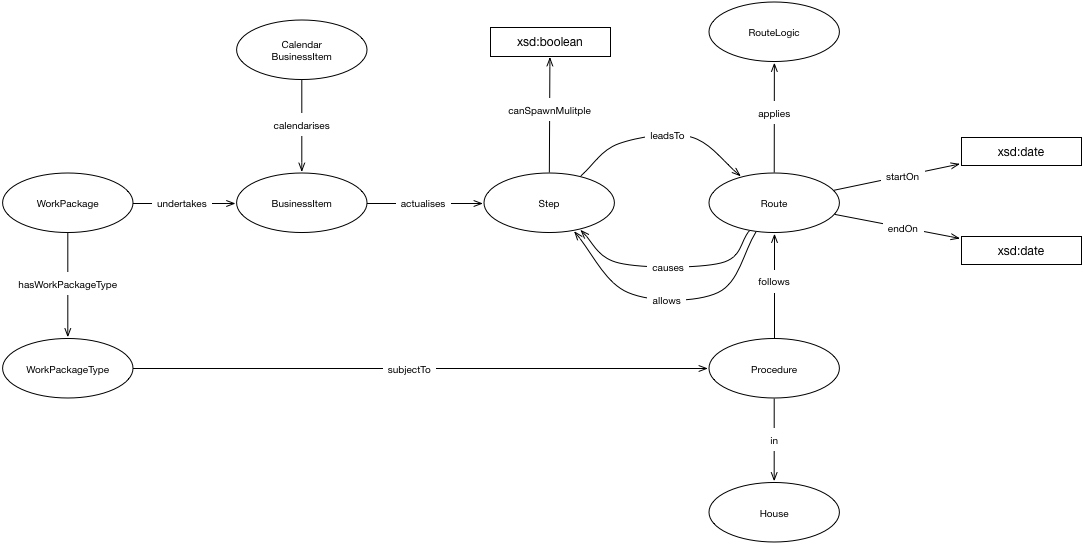
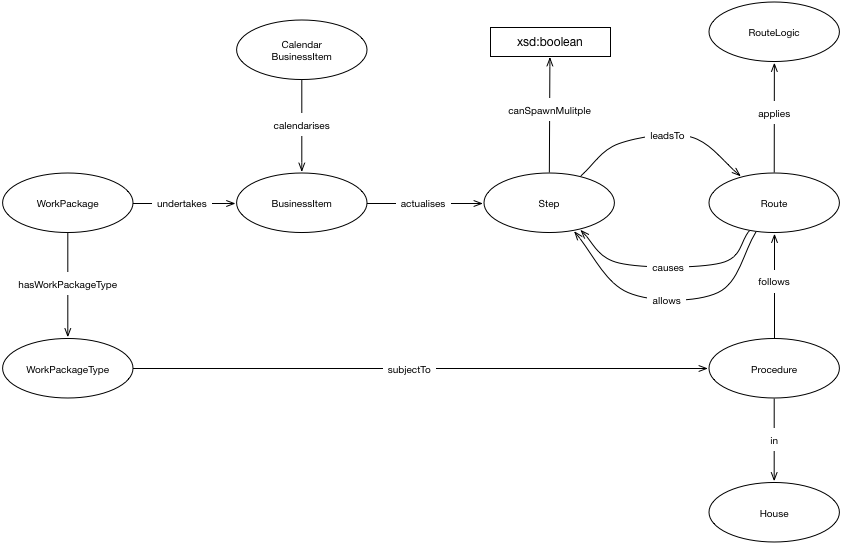
removed explicit start on and end on from routes, added to comment instead

diff --git a/procedure/procedure-ontology.html b/procedure/procedure-ontology.html
@@ -51,6 +51,9 @@
 
 
 
-<div id="classes"><h2>Classes</h2><ul class="hlist"><li><a href="#d4e247" title="http://parliament.uk/ontologies/procedure/BusinessItem">BusinessItem</a></li><li><a href="#d4e259" title="http://parliament.uk/ontologies/procedure/CalendarBusinessItem">CalendarBusinessItem</a></li><li><a href="#d4e270" title="http://parliament.uk/ontologies/procedure/House">House</a></li><li><a href="#d4e281" title="http://parliament.uk/ontologies/procedure/Procedure">Procedure</a></li><li><a href="#d4e293" title="http://parliament.uk/ontologies/procedure/Route">Route</a></li><li><a href="#d4e304" title="http://parliament.uk/ontologies/procedure/RouteLogic">RouteLogic</a></li><li><a href="#d4e315" title="http://parliament.uk/ontologies/procedure/Step">Step</a></li><li><a href="#d4e327" title="http://parliament.uk/ontologies/procedure/WorkPackage">WorkPackage</a></li><li><a href="#d4e338" title="http://parliament.uk/ontologies/procedure/WorkPackageType">WorkPackageType</a></li></ul><div id="d4e247" class="entity"><a name="http://parliament.uk/ontologies/procedure/BusinessItem"></a><h3>BusinessItem<sup title="class" class="type-c">c</sup><span class="backlink"> back to <a href="#toc">ToC</a> or <a href="#classes">Class ToC</a></span></h3><p><strong>IRI:</strong> http://parliament.uk/ontologies/procedure/BusinessItem</p><div class="comment"><span class="markdown">An item of parliamentary business.</span></div><dl class="description"><dt>is in domain of</dt><dd><a href="#d4e29" title="http://parliament.uk/ontologies/procedure/actualises">actualises</a><sup title="object property" class="type-op">op</sup></dd><dt>is in range of</dt><dd><a href="#d4e75" title="http://parliament.uk/ontologies/procedure/calendarises">calendarises</a><sup title="object property" class="type-op">op</sup>, <a href="#d4e182" title="http://parliament.uk/ontologies/procedure/undertakes">undertakes</a><sup title="object property" class="type-op">op</sup></dd></dl></div><div id="d4e259" class="entity"><a name="http://parliament.uk/ontologies/procedure/CalendarBusinessItem"></a><h3>CalendarBusinessItem<sup title="class" class="type-c">c</sup><span class="backlink"> back to <a href="#toc">ToC</a> or <a href="#classes">Class ToC</a></span></h3><p><strong>IRI:</strong> http://parliament.uk/ontologies/procedure/CalendarBusinessItem</p><div class="comment"><span class="markdown">An item of parliamentary business which has been timetabled onto a calendar.</span></div><dl class="description"><dt>is in domain of</dt><dd><a href="#d4e75" title="http://parliament.uk/ontologies/procedure/calendarises">calendarises</a><sup title="object property" class="type-op">op</sup></dd></dl></div><div id="d4e270" class="entity"><a name="http://parliament.uk/ontologies/procedure/House"></a><h3>House<sup title="class" class="type-c">c</sup><span class="backlink"> back to <a href="#toc">ToC</a> or <a href="#classes">Class ToC</a></span></h3><p><strong>IRI:</strong> http://parliament.uk/ontologies/procedure/House</p><div class="comment"><span class="markdown">A parliamentary House e.g. the House of Lords.</span></div><dl class="description"><dt>is in range of</dt><dd><a href="#d4e136" title="http://parliament.uk/ontologies/procedure/in">in</a><sup title="object property" class="type-op">op</sup></dd></dl></div><div id="d4e281" class="entity"><a name="http://parliament.uk/ontologies/procedure/Procedure"></a><h3>Procedure<sup title="class" class="type-c">c</sup><span class="backlink"> back to <a href="#toc">ToC</a> or <a href="#classes">Class ToC</a></span></h3><p><strong>IRI:</strong> http://parliament.uk/ontologies/procedure/Procedure</p><div class="comment"><span class="markdown">A parliamentary procedure in a particular House. Examples might be the passage of an affirmative SI in the House of Commons, the passage of a public bill in the House of Lords etc.</span></div><dl class="description"><dt>is in domain of</dt><dd><a href="#d4e105" title="http://parliament.uk/ontologies/procedure/follows">follows</a><sup title="object property" class="type-op">op</sup>, <a href="#d4e136" title="http://parliament.uk/ontologies/procedure/in">in</a><sup title="object property" class="type-op">op</sup></dd><dt>is in range of</dt><dd><a href="#d4e167" title="http://parliament.uk/ontologies/procedure/subjectTo">subjectTo</a><sup title="object property" class="type-op">op</sup></dd></dl></div><div id="d4e293" class="entity"><a name="http://parliament.uk/ontologies/procedure/Route"></a><h3>Route<sup title="class" class="type-c">c</sup><span class="backlink"> back to <a href="#toc">ToC</a> or <a href="#classes">Class ToC</a></span></h3><p><strong>IRI:</strong> http://parliament.uk/ontologies/procedure/Route</p><div class="comment"><span class="markdown">Ties a preceding step to a following step depending on applicable procedure, point in time and conditional inputs from the preceding step.</span></div><dl class="description"><dt>is in domain of</dt><dd><a href="#d4e44" title="http://parliament.uk/ontologies/procedure/allows">allows</a><sup title="object property" class="type-op">op</sup>, <a href="#d4e59" title="http://parliament.uk/ontologies/procedure/applies">applies</a><sup title="object property" class="type-op">op</sup>, <a href="#d4e90" title="http://parliament.uk/ontologies/procedure/causes">causes</a><sup title="object property" class="type-op">op</sup>, <a href="#d4e215" title="http://parliament.uk/ontologies/procedure/endOn">endOn</a><sup title="data property" class="type-dp">dp</sup>, <a href="#d4e230" title="http://parliament.uk/ontologies/procedure/startOn">startOn</a><sup title="data property" class="type-dp">dp</sup></dd><dt>is in range of</dt><dd><a href="#d4e105" title="http://parliament.uk/ontologies/procedure/follows">follows</a><sup title="object property" class="type-op">op</sup>, <a href="#d4e151" title="http://parliament.uk/ontologies/procedure/leadsTo">leadsTo</a><sup title="object property" class="type-op">op</sup></dd></dl></div><div id="d4e304" class="entity"><a name="http://parliament.uk/ontologies/procedure/RouteLogic"></a><h3>RouteLogic<sup title="class" class="type-c">c</sup><span class="backlink"> back to <a href="#toc">ToC</a> or <a href="#classes">Class ToC</a></span></h3><p><strong>IRI:</strong> http://parliament.uk/ontologies/procedure/RouteLogic</p><div class="comment"><span class="markdown">Works something like a logic gate. Route logic allows for the specification of the logic which determines a route's actions. Takes into account the completion of all preceding steps leading to the route and states whether all preceding steps must be completed (AND) or just some (OR).</span></div><dl class="description"><dt>is in range of</dt><dd><a href="#d4e59" title="http://parliament.uk/ontologies/procedure/applies">applies</a><sup title="object property" class="type-op">op</sup></dd></dl></div><div id="d4e315" class="entity"><a name="http://parliament.uk/ontologies/procedure/Step"></a><h3>Step<sup title="class" class="type-c">c</sup><span class="backlink"> back to <a href="#toc">ToC</a> or <a href="#classes">Class ToC</a></span></h3><p><strong>IRI:</strong> http://parliament.uk/ontologies/procedure/Step</p><div class="comment"><span class="markdown">A step in a process. May occur in one or many routes.</span></div><dl class="description"><dt>is in domain of</dt><dd><a href="#d4e199" title="http://parliament.uk/ontologies/procedure/canSpawnMultiple">canSpawnMultiple</a><sup title="data property" class="type-dp">dp</sup>, <a href="#d4e151" title="http://parliament.uk/ontologies/procedure/leadsTo">leadsTo</a><sup title="object property" class="type-op">op</sup></dd><dt>is in range of</dt><dd><a href="#d4e29" title="http://parliament.uk/ontologies/procedure/actualises">actualises</a><sup title="object property" class="type-op">op</sup>, <a href="#d4e44" title="http://parliament.uk/ontologies/procedure/allows">allows</a><sup title="object property" class="type-op">op</sup>, <a href="#d4e90" title="http://parliament.uk/ontologies/procedure/causes">causes</a><sup title="object property" class="type-op">op</sup></dd></dl></div><div id="d4e327" class="entity"><a name="http://parliament.uk/ontologies/procedure/WorkPackage"></a><h3>WorkPackage<sup title="class" class="type-c">c</sup><span class="backlink"> back to <a href="#toc">ToC</a> or <a href="#classes">Class ToC</a></span></h3><p><strong>IRI:</strong> http://parliament.uk/ontologies/procedure/WorkPackage</p><div class="comment"><span class="markdown">A package of work involving many individual business items. Might be the passage of a specific statutory instrument or the passage of a specific public bill etc.</span></div><dl class="description"><dt>is in domain of</dt><dd><a href="#d4e121" title="http://parliament.uk/ontologies/procedure/hasWorkPackageType">hasWorkPackageType</a><sup title="object property" class="type-op">op</sup>, <a href="#d4e182" title="http://parliament.uk/ontologies/procedure/undertakes">undertakes</a><sup title="object property" class="type-op">op</sup></dd></dl></div><div id="d4e338" class="entity"><a name="http://parliament.uk/ontologies/procedure/WorkPackageType"></a><h3>WorkPackageType<sup title="class" class="type-c">c</sup><span class="backlink"> back to <a href="#toc">ToC</a> or <a href="#classes">Class ToC</a></span></h3><p><strong>IRI:</strong> http://parliament.uk/ontologies/procedure/WorkPackageType</p><div class="comment"><span class="markdown">A type of a work package. Might be the passage of affirmative statutory instruments or the passage of public bills etc.</span></div><dl class="description"><dt>is in domain of</dt><dd><a href="#d4e167" title="http://parliament.uk/ontologies/procedure/subjectTo">subjectTo</a><sup title="object property" class="type-op">op</sup></dd><dt>is in range of</dt><dd><a href="#d4e121" title="http://parliament.uk/ontologies/procedure/hasWorkPackageType">hasWorkPackageType</a><sup title="object property" class="type-op">op</sup></dd></dl></div></div><div id="objectproperties"><h2>Object Properties</h2><ul class="hlist"><li><a href="#d4e29" title="http://parliament.uk/ontologies/procedure/actualises">actualises</a></li><li><a href="#d4e44" title="http://parliament.uk/ontologies/procedure/allows">allows</a></li><li><a href="#d4e59" title="http://parliament.uk/ontologies/procedure/applies">applies</a></li><li><a href="#d4e75" title="http://parliament.uk/ontologies/procedure/calendarises">calendarises</a></li><li><a href="#d4e90" title="http://parliament.uk/ontologies/procedure/causes">causes</a></li><li><a href="#d4e105" title="http://parliament.uk/ontologies/procedure/follows">follows</a></li><li><a href="#d4e121" title="http://parliament.uk/ontologies/procedure/hasWorkPackageType">hasWorkPackageType</a></li><li><a href="#d4e136" title="http://parliament.uk/ontologies/procedure/in">in</a></li><li><a href="#d4e151" title="http://parliament.uk/ontologies/procedure/leadsTo">leadsTo</a></li><li><a href="#d4e167" title="http://parliament.uk/ontologies/procedure/subjectTo">subjectTo</a></li><li><a href="#d4e182" title="http://parliament.uk/ontologies/procedure/undertakes">undertakes</a></li></ul><div id="d4e29" class="entity"><a name="http://parliament.uk/ontologies/procedure/actualises"></a><h3>actualises<sup title="object property" class="type-op">op</sup><span class="backlink"> back to <a href="#toc">ToC</a> or <a href="#objectproperties">Object Property ToC</a></span></h3><p><strong>IRI:</strong> http://parliament.uk/ontologies/procedure/actualises</p><div class="comment"><span class="markdown">Relates a business item to a step in a procedure.</span></div><div class="description"><dl><dt>has domain</dt><dd><a href="#d4e247" title="http://parliament.uk/ontologies/procedure/BusinessItem">BusinessItem</a><sup title="class" class="type-c">c</sup></dd><dt>has range</dt><dd><a href="#d4e315" title="http://parliament.uk/ontologies/procedure/Step">Step</a><sup title="class" class="type-c">c</sup></dd></dl></div></div><div id="d4e44" class="entity"><a name="http://parliament.uk/ontologies/procedure/allows"></a><h3>allows<sup title="object property" class="type-op">op</sup><span class="backlink"> back to <a href="#toc">ToC</a> or <a href="#objectproperties">Object Property ToC</a></span></h3><p><strong>IRI:</strong> http://parliament.uk/ontologies/procedure/allows</p><div class="comment"><span class="markdown">Relates a route to a following step where completion of the preceding step(s) allows the next step to happen, but does not cause it to happen.</span></div><div class="description"><dl><dt>has domain</dt><dd><a href="#d4e293" title="http://parliament.uk/ontologies/procedure/Route">Route</a><sup title="class" class="type-c">c</sup></dd><dt>has range</dt><dd><a href="#d4e315" title="http://parliament.uk/ontologies/procedure/Step">Step</a><sup title="class" class="type-c">c</sup></dd></dl></div></div><div id="d4e59" class="entity"><a name="http://parliament.uk/ontologies/procedure/applies"></a><h3>applies<sup title="object property" class="type-op">op</sup><span class="backlink"> back to <a href="#toc">ToC</a> or <a href="#objectproperties">Object Property ToC</a></span></h3><p><strong>IRI:</strong> http://parliament.uk/ontologies/procedure/applies</p><div class="comment"><span class="markdown">Relates a route to the route logic applied.</span></div><div class="description"><dl><dt>has domain</dt><dd><a href="#d4e293" title="http://parliament.uk/ontologies/procedure/Route">Route</a><sup title="class" class="type-c">c</sup></dd><dt>has range</dt><dd><a href="#d4e304" title="http://parliament.uk/ontologies/procedure/RouteLogic">RouteLogic</a><sup title="class" class="type-c">c</sup></dd></dl></div></div><div id="d4e75" class="entity"><a name="http://parliament.uk/ontologies/procedure/calendarises"></a><h3>calendarises<sup title="object property" class="type-op">op</sup><span class="backlink"> back to <a href="#toc">ToC</a> or <a href="#objectproperties">Object Property ToC</a></span></h3><p><strong>IRI:</strong> http://parliament.uk/ontologies/procedure/calendarises</p><div class="comment"><span class="markdown">Relates a calender business item to a business item.</span></div><div class="description"><dl><dt>has domain</dt><dd><a href="#d4e259" title="http://parliament.uk/ontologies/procedure/CalendarBusinessItem">CalendarBusinessItem</a><sup title="class" class="type-c">c</sup></dd><dt>has range</dt><dd><a href="#d4e247" title="http://parliament.uk/ontologies/procedure/BusinessItem">BusinessItem</a><sup title="class" class="type-c">c</sup></dd></dl></div></div><div id="d4e90" class="entity"><a name="http://parliament.uk/ontologies/procedure/causes"></a><h3>causes<sup title="object property" class="type-op">op</sup><span class="backlink"> back to <a href="#toc">ToC</a> or <a href="#objectproperties">Object Property ToC</a></span></h3><p><strong>IRI:</strong> http://parliament.uk/ontologies/procedure/causes</p><div class="comment"><span class="markdown">Relates a route to a following step where completion of the preceding step(s) directly causes the route to trigger the next step.</span></div><div class="description"><dl><dt>has domain</dt><dd><a href="#d4e293" title="http://parliament.uk/ontologies/procedure/Route">Route</a><sup title="class" class="type-c">c</sup></dd><dt>has range</dt><dd><a href="#d4e315" title="http://parliament.uk/ontologies/procedure/Step">Step</a><sup title="class" class="type-c">c</sup></dd></dl></div></div><div id="d4e105" class="entity"><a name="http://parliament.uk/ontologies/procedure/follows"></a><h3>follows<sup title="object property" class="type-op">op</sup><span class="backlink"> back to <a href="#toc">ToC</a> or <a href="#objectproperties">Object Property ToC</a></span></h3><p><strong>IRI:</strong> http://parliament.uk/ontologies/procedure/follows</p><div class="comment"><span class="markdown">Relates a procedure to a route.</span></div><div class="description"><dl><dt>has domain</dt><dd><a href="#d4e281" title="http://parliament.uk/ontologies/procedure/Procedure">Procedure</a><sup title="class" class="type-c">c</sup></dd><dt>has range</dt><dd><a href="#d4e293" title="http://parliament.uk/ontologies/procedure/Route">Route</a><sup title="class" class="type-c">c</sup></dd></dl></div></div><div id="d4e121" class="entity"><a name="http://parliament.uk/ontologies/procedure/hasWorkPackageType"></a><h3>hasWorkPackageType<sup title="object property" class="type-op">op</sup><span class="backlink"> back to <a href="#toc">ToC</a> or <a href="#objectproperties">Object Property ToC</a></span></h3><p><strong>IRI:</strong> http://parliament.uk/ontologies/procedure/hasWorkPackageType</p><div class="comment"><span class="markdown">Relates a work package to the type of work being undertaken.</span></div><div class="description"><dl><dt>has domain</dt><dd><a href="#d4e327" title="http://parliament.uk/ontologies/procedure/WorkPackage">WorkPackage</a><sup title="class" class="type-c">c</sup></dd><dt>has range</dt><dd><a href="#d4e338" title="http://parliament.uk/ontologies/procedure/WorkPackageType">WorkPackageType</a><sup title="class" class="type-c">c</sup></dd></dl></div></div><div id="d4e136" class="entity"><a name="http://parliament.uk/ontologies/procedure/in"></a><h3>in<sup title="object property" class="type-op">op</sup><span class="backlink"> back to <a href="#toc">ToC</a> or <a href="#objectproperties">Object Property ToC</a></span></h3><p><strong>IRI:</strong> http://parliament.uk/ontologies/procedure/in</p><div class="comment"><span class="markdown">Relates a procedure to a House.</span></div><div class="description"><dl><dt>has domain</dt><dd><a href="#d4e281" title="http://parliament.uk/ontologies/procedure/Procedure">Procedure</a><sup title="class" class="type-c">c</sup></dd><dt>has range</dt><dd><a href="#d4e270" title="http://parliament.uk/ontologies/procedure/House">House</a><sup title="class" class="type-c">c</sup></dd></dl></div></div><div id="d4e151" class="entity"><a name="http://parliament.uk/ontologies/procedure/leadsTo"></a><h3>leadsTo<sup title="object property" class="type-op">op</sup><span class="backlink"> back to <a href="#toc">ToC</a> or <a href="#objectproperties">Object Property ToC</a></span></h3><p><strong>IRI:</strong> http://parliament.uk/ontologies/procedure/leadsTo</p><div class="comment"><span class="markdown">Relates a step to a following route.</span></div><div class="description"><dl><dt>has domain</dt><dd><a href="#d4e315" title="http://parliament.uk/ontologies/procedure/Step">Step</a><sup title="class" class="type-c">c</sup></dd><dt>has range</dt><dd><a href="#d4e293" title="http://parliament.uk/ontologies/procedure/Route">Route</a><sup title="class" class="type-c">c</sup></dd></dl></div></div><div id="d4e167" class="entity"><a name="http://parliament.uk/ontologies/procedure/subjectTo"></a><h3>subjectTo<sup title="object property" class="type-op">op</sup><span class="backlink"> back to <a href="#toc">ToC</a> or <a href="#objectproperties">Object Property ToC</a></span></h3><p><strong>IRI:</strong> http://parliament.uk/ontologies/procedure/subjectTo</p><div class="comment"><span class="markdown">Relates a work package type to the procedure it is subject to.</span></div><div class="description"><dl><dt>has domain</dt><dd><a href="#d4e338" title="http://parliament.uk/ontologies/procedure/WorkPackageType">WorkPackageType</a><sup title="class" class="type-c">c</sup></dd><dt>has range</dt><dd><a href="#d4e281" title="http://parliament.uk/ontologies/procedure/Procedure">Procedure</a><sup title="class" class="type-c">c</sup></dd></dl></div></div><div id="d4e182" class="entity"><a name="http://parliament.uk/ontologies/procedure/undertakes"></a><h3>undertakes<sup title="object property" class="type-op">op</sup><span class="backlink"> back to <a href="#toc">ToC</a> or <a href="#objectproperties">Object Property ToC</a></span></h3><p><strong>IRI:</strong> http://parliament.uk/ontologies/procedure/undertakes</p><div class="comment"><span class="markdown">Relates a work package to the individual business items that comprise it.</span></div><div class="description"><dl><dt>has domain</dt><dd><a href="#d4e327" title="http://parliament.uk/ontologies/procedure/WorkPackage">WorkPackage</a><sup title="class" class="type-c">c</sup></dd><dt>has range</dt><dd><a href="#d4e247" title="http://parliament.uk/ontologies/procedure/BusinessItem">BusinessItem</a><sup title="class" class="type-c">c</sup></dd></dl></div></div></div><div id="dataproperties"><h2>Data Properties</h2><ul class="hlist"><li><a href="#d4e199" title="http://parliament.uk/ontologies/procedure/canSpawnMultiple">canSpawnMultiple</a></li><li><a href="#d4e215" title="http://parliament.uk/ontologies/procedure/endOn">endOn</a></li><li><a href="#d4e230" title="http://parliament.uk/ontologies/procedure/startOn">startOn</a></li></ul><div id="d4e199" class="entity"><a name="http://parliament.uk/ontologies/procedure/canSpawnMultiple"></a><h3>canSpawnMultiple<sup title="data property" class="type-dp">dp</sup><span class="backlink"> back to <a href="#toc">ToC</a> or <a href="#dataproperties">Data Property ToC</a></span></h3><p><strong>IRI:</strong> http://parliament.uk/ontologies/procedure/canSpawnMultiple</p><div class="comment"><span class="markdown">Determines if multiple versions of the step can be spawned in parallel. Or just one.</span></div><div class="description"><dl><dt>has domain</dt><dd><a href="#d4e315" title="http://parliament.uk/ontologies/procedure/Step">Step</a><sup title="class" class="type-c">c</sup></dd><dt>has range</dt><dd><span class="dotted" title="http://www.w3.org/2001/XMLSchema#boolean">boolean</span></dd></dl></div></div><div id="d4e215" class="entity"><a name="http://parliament.uk/ontologies/procedure/endOn"></a><h3>endOn<sup title="data property" class="type-dp">dp</sup><span class="backlink"> back to <a href="#toc">ToC</a> or <a href="#dataproperties">Data Property ToC</a></span></h3><p><strong>IRI:</strong> http://parliament.uk/ontologies/procedure/endOn</p><div class="comment"><span class="markdown">Relates a route to an end date. Allows routes to change over time to reflect changes to procedure. Borrowed from the core ontology.</span></div><div class="description"><dl><dt>has domain</dt><dd><a href="#d4e293" title="http://parliament.uk/ontologies/procedure/Route">Route</a><sup title="class" class="type-c">c</sup></dd><dt>has range</dt><dd><span class="dotted" title="http://www.w3.org/2001/XMLSchema#date">date</span></dd></dl></div></div><div id="d4e230" class="entity"><a name="http://parliament.uk/ontologies/procedure/startOn"></a><h3>startOn<sup title="data property" class="type-dp">dp</sup><span class="backlink"> back to <a href="#toc">ToC</a> or <a href="#dataproperties">Data Property ToC</a></span></h3><p><strong>IRI:</strong> http://parliament.uk/ontologies/procedure/startOn</p><div class="comment"><span class="markdown">Relates a route to a start date. Allows routes to change over time to reflect changes to procedure. Borrowed from the core ontology.</span></div><div class="description"><dl><dt>has domain</dt><dd><a href="#d4e293" title="http://parliament.uk/ontologies/procedure/Route">Route</a><sup title="class" class="type-c">c</sup></dd><dt>has range</dt><dd><span class="dotted" title="http://www.w3.org/2001/XMLSchema#date">date</span></dd></dl></div></div></div><div id="namespacedeclarations"><h2>Namespace Declarations <span class="backlink"> back to <a href="#toc">ToC</a></span></h2><dl><dt><em>default namespace</em></dt><dd>http://parliament.uk/ontologies/laying/</dd><dt>owl</dt><dd>http://www.w3.org/2002/07/owl#</dd><dt>procedure</dt><dd>http://parliament.uk/ontologies/procedure/</dd><dt>rdf</dt><dd>http://www.w3.org/1999/02/22-rdf-syntax-ns#</dd><dt>rdfs</dt><dd>http://www.w3.org/2000/01/rdf-schema#</dd><dt>terms</dt><dd>http://purl.org/dc/terms/</dd><dt>xsd</dt><dd>http://www.w3.org/2001/XMLSchema#</dd></dl></div><p class="endnote">This HTML document was obtained by processing the OWL ontology source code through <a href="http://www.essepuntato.it/lode">LODE</a>, <em>Live OWL Documentation Environment</em>, developed by <a href="http://www.essepuntato.it">Silvio Peroni</a>.</p></body></html>
+
+
+
+<div id="classes"><h2>Classes</h2><ul class="hlist"><li><a href="#d4e211" title="http://parliament.uk/ontologies/procedure/BusinessItem">BusinessItem</a></li><li><a href="#d4e222" title="http://parliament.uk/ontologies/procedure/CalendarBusinessItem">CalendarBusinessItem</a></li><li><a href="#d4e233" title="http://parliament.uk/ontologies/procedure/House">House</a></li><li><a href="#d4e245" title="http://parliament.uk/ontologies/procedure/Procedure">Procedure</a></li><li><a href="#d4e256" title="http://parliament.uk/ontologies/procedure/Route">Route</a></li><li><a href="#d4e267" title="http://parliament.uk/ontologies/procedure/RouteLogic">RouteLogic</a></li><li><a href="#d4e279" title="http://parliament.uk/ontologies/procedure/Step">Step</a></li><li><a href="#d4e290" title="http://parliament.uk/ontologies/procedure/WorkPackage">WorkPackage</a></li><li><a href="#d4e301" title="http://parliament.uk/ontologies/procedure/WorkPackageType">WorkPackageType</a></li></ul><div id="d4e211" class="entity"><a name="http://parliament.uk/ontologies/procedure/BusinessItem"></a><h3>BusinessItem<sup title="class" class="type-c">c</sup><span class="backlink"> back to <a href="#toc">ToC</a> or <a href="#classes">Class ToC</a></span></h3><p><strong>IRI:</strong> http://parliament.uk/ontologies/procedure/BusinessItem</p><div class="comment"><span class="markdown">An item of parliamentary business.</span></div><dl class="description"><dt>is in domain of</dt><dd><a href="#d4e22" title="http://parliament.uk/ontologies/procedure/actualises">actualises</a><sup title="object property" class="type-op">op</sup></dd><dt>is in range of</dt><dd><a href="#d4e68" title="http://parliament.uk/ontologies/procedure/calendarises">calendarises</a><sup title="object property" class="type-op">op</sup>, <a href="#d4e176" title="http://parliament.uk/ontologies/procedure/undertakes">undertakes</a><sup title="object property" class="type-op">op</sup></dd></dl></div><div id="d4e222" class="entity"><a name="http://parliament.uk/ontologies/procedure/CalendarBusinessItem"></a><h3>CalendarBusinessItem<sup title="class" class="type-c">c</sup><span class="backlink"> back to <a href="#toc">ToC</a> or <a href="#classes">Class ToC</a></span></h3><p><strong>IRI:</strong> http://parliament.uk/ontologies/procedure/CalendarBusinessItem</p><div class="comment"><span class="markdown">An item of parliamentary business which has been timetabled onto a calendar.</span></div><dl class="description"><dt>is in domain of</dt><dd><a href="#d4e68" title="http://parliament.uk/ontologies/procedure/calendarises">calendarises</a><sup title="object property" class="type-op">op</sup></dd></dl></div><div id="d4e233" class="entity"><a name="http://parliament.uk/ontologies/procedure/House"></a><h3>House<sup title="class" class="type-c">c</sup><span class="backlink"> back to <a href="#toc">ToC</a> or <a href="#classes">Class ToC</a></span></h3><p><strong>IRI:</strong> http://parliament.uk/ontologies/procedure/House</p><div class="comment"><span class="markdown">A parliamentary House e.g. the House of Lords.</span></div><dl class="description"><dt>is in range of</dt><dd><a href="#d4e130" title="http://parliament.uk/ontologies/procedure/in">in</a><sup title="object property" class="type-op">op</sup></dd></dl></div><div id="d4e245" class="entity"><a name="http://parliament.uk/ontologies/procedure/Procedure"></a><h3>Procedure<sup title="class" class="type-c">c</sup><span class="backlink"> back to <a href="#toc">ToC</a> or <a href="#classes">Class ToC</a></span></h3><p><strong>IRI:</strong> http://parliament.uk/ontologies/procedure/Procedure</p><div class="comment"><span class="markdown">A parliamentary procedure in a particular House. Examples might be the passage of an affirmative SI in the House of Commons, the passage of a public bill in the House of Lords etc.</span></div><dl class="description"><dt>is in domain of</dt><dd><a href="#d4e99" title="http://parliament.uk/ontologies/procedure/follows">follows</a><sup title="object property" class="type-op">op</sup>, <a href="#d4e130" title="http://parliament.uk/ontologies/procedure/in">in</a><sup title="object property" class="type-op">op</sup></dd><dt>is in range of</dt><dd><a href="#d4e160" title="http://parliament.uk/ontologies/procedure/subjectTo">subjectTo</a><sup title="object property" class="type-op">op</sup></dd></dl></div><div id="d4e256" class="entity"><a name="http://parliament.uk/ontologies/procedure/Route"></a><h3>Route<sup title="class" class="type-c">c</sup><span class="backlink"> back to <a href="#toc">ToC</a> or <a href="#classes">Class ToC</a></span></h3><p><strong>IRI:</strong> http://parliament.uk/ontologies/procedure/Route</p><div class="comment"><span class="markdown">Ties a preceding step to a following step depending on applicable procedure, point in time and conditional inputs from the preceding step. Note that routes are time bound (borrowing startOn and endOn from the Core Ontology) allowing for routes to change over time and reflect changes to procedure.</span></div><dl class="description"><dt>is in domain of</dt><dd><a href="#d4e38" title="http://parliament.uk/ontologies/procedure/allows">allows</a><sup title="object property" class="type-op">op</sup>, <a href="#d4e53" title="http://parliament.uk/ontologies/procedure/applies">applies</a><sup title="object property" class="type-op">op</sup>, <a href="#d4e84" title="http://parliament.uk/ontologies/procedure/causes">causes</a><sup title="object property" class="type-op">op</sup></dd><dt>is in range of</dt><dd><a href="#d4e99" title="http://parliament.uk/ontologies/procedure/follows">follows</a><sup title="object property" class="type-op">op</sup>, <a href="#d4e145" title="http://parliament.uk/ontologies/procedure/leadsTo">leadsTo</a><sup title="object property" class="type-op">op</sup></dd></dl></div><div id="d4e267" class="entity"><a name="http://parliament.uk/ontologies/procedure/RouteLogic"></a><h3>RouteLogic<sup title="class" class="type-c">c</sup><span class="backlink"> back to <a href="#toc">ToC</a> or <a href="#classes">Class ToC</a></span></h3><p><strong>IRI:</strong> http://parliament.uk/ontologies/procedure/RouteLogic</p><div class="comment"><span class="markdown">Works something like a logic gate. Route logic allows for the specification of the logic which determines a route's actions. Takes into account the completion of all preceding steps leading to the route and states whether all preceding steps must be completed (AND) or just some (OR).</span></div><dl class="description"><dt>is in range of</dt><dd><a href="#d4e53" title="http://parliament.uk/ontologies/procedure/applies">applies</a><sup title="object property" class="type-op">op</sup></dd></dl></div><div id="d4e279" class="entity"><a name="http://parliament.uk/ontologies/procedure/Step"></a><h3>Step<sup title="class" class="type-c">c</sup><span class="backlink"> back to <a href="#toc">ToC</a> or <a href="#classes">Class ToC</a></span></h3><p><strong>IRI:</strong> http://parliament.uk/ontologies/procedure/Step</p><div class="comment"><span class="markdown">A step in a process. May occur in one or many routes.</span></div><dl class="description"><dt>is in domain of</dt><dd><a href="#d4e193" title="http://parliament.uk/ontologies/procedure/canSpawnMultiple">canSpawnMultiple</a><sup title="data property" class="type-dp">dp</sup>, <a href="#d4e145" title="http://parliament.uk/ontologies/procedure/leadsTo">leadsTo</a><sup title="object property" class="type-op">op</sup></dd><dt>is in range of</dt><dd><a href="#d4e22" title="http://parliament.uk/ontologies/procedure/actualises">actualises</a><sup title="object property" class="type-op">op</sup>, <a href="#d4e38" title="http://parliament.uk/ontologies/procedure/allows">allows</a><sup title="object property" class="type-op">op</sup>, <a href="#d4e84" title="http://parliament.uk/ontologies/procedure/causes">causes</a><sup title="object property" class="type-op">op</sup></dd></dl></div><div id="d4e290" class="entity"><a name="http://parliament.uk/ontologies/procedure/WorkPackage"></a><h3>WorkPackage<sup title="class" class="type-c">c</sup><span class="backlink"> back to <a href="#toc">ToC</a> or <a href="#classes">Class ToC</a></span></h3><p><strong>IRI:</strong> http://parliament.uk/ontologies/procedure/WorkPackage</p><div class="comment"><span class="markdown">A package of work involving many individual business items. Might be the passage of a specific statutory instrument or the passage of a specific public bill etc.</span></div><dl class="description"><dt>is in domain of</dt><dd><a href="#d4e114" title="http://parliament.uk/ontologies/procedure/hasWorkPackageType">hasWorkPackageType</a><sup title="object property" class="type-op">op</sup>, <a href="#d4e176" title="http://parliament.uk/ontologies/procedure/undertakes">undertakes</a><sup title="object property" class="type-op">op</sup></dd></dl></div><div id="d4e301" class="entity"><a name="http://parliament.uk/ontologies/procedure/WorkPackageType"></a><h3>WorkPackageType<sup title="class" class="type-c">c</sup><span class="backlink"> back to <a href="#toc">ToC</a> or <a href="#classes">Class ToC</a></span></h3><p><strong>IRI:</strong> http://parliament.uk/ontologies/procedure/WorkPackageType</p><div class="comment"><span class="markdown">A type of a work package. Might be the passage of affirmative statutory instruments or the passage of public bills etc.</span></div><dl class="description"><dt>is in domain of</dt><dd><a href="#d4e160" title="http://parliament.uk/ontologies/procedure/subjectTo">subjectTo</a><sup title="object property" class="type-op">op</sup></dd><dt>is in range of</dt><dd><a href="#d4e114" title="http://parliament.uk/ontologies/procedure/hasWorkPackageType">hasWorkPackageType</a><sup title="object property" class="type-op">op</sup></dd></dl></div></div><div id="objectproperties"><h2>Object Properties</h2><ul class="hlist"><li><a href="#d4e22" title="http://parliament.uk/ontologies/procedure/actualises">actualises</a></li><li><a href="#d4e38" title="http://parliament.uk/ontologies/procedure/allows">allows</a></li><li><a href="#d4e53" title="http://parliament.uk/ontologies/procedure/applies">applies</a></li><li><a href="#d4e68" title="http://parliament.uk/ontologies/procedure/calendarises">calendarises</a></li><li><a href="#d4e84" title="http://parliament.uk/ontologies/procedure/causes">causes</a></li><li><a href="#d4e99" title="http://parliament.uk/ontologies/procedure/follows">follows</a></li><li><a href="#d4e114" title="http://parliament.uk/ontologies/procedure/hasWorkPackageType">hasWorkPackageType</a></li><li><a href="#d4e130" title="http://parliament.uk/ontologies/procedure/in">in</a></li><li><a href="#d4e145" title="http://parliament.uk/ontologies/procedure/leadsTo">leadsTo</a></li><li><a href="#d4e160" title="http://parliament.uk/ontologies/procedure/subjectTo">subjectTo</a></li><li><a href="#d4e176" title="http://parliament.uk/ontologies/procedure/undertakes">undertakes</a></li></ul><div id="d4e22" class="entity"><a name="http://parliament.uk/ontologies/procedure/actualises"></a><h3>actualises<sup title="object property" class="type-op">op</sup><span class="backlink"> back to <a href="#toc">ToC</a> or <a href="#objectproperties">Object Property ToC</a></span></h3><p><strong>IRI:</strong> http://parliament.uk/ontologies/procedure/actualises</p><div class="comment"><span class="markdown">Relates a business item to a step in a procedure.</span></div><div class="description"><dl><dt>has domain</dt><dd><a href="#d4e211" title="http://parliament.uk/ontologies/procedure/BusinessItem">BusinessItem</a><sup title="class" class="type-c">c</sup></dd><dt>has range</dt><dd><a href="#d4e279" title="http://parliament.uk/ontologies/procedure/Step">Step</a><sup title="class" class="type-c">c</sup></dd></dl></div></div><div id="d4e38" class="entity"><a name="http://parliament.uk/ontologies/procedure/allows"></a><h3>allows<sup title="object property" class="type-op">op</sup><span class="backlink"> back to <a href="#toc">ToC</a> or <a href="#objectproperties">Object Property ToC</a></span></h3><p><strong>IRI:</strong> http://parliament.uk/ontologies/procedure/allows</p><div class="comment"><span class="markdown">Relates a route to a following step where completion of the preceding step(s) allows the next step to happen, but does not cause it to happen.</span></div><div class="description"><dl><dt>has domain</dt><dd><a href="#d4e256" title="http://parliament.uk/ontologies/procedure/Route">Route</a><sup title="class" class="type-c">c</sup></dd><dt>has range</dt><dd><a href="#d4e279" title="http://parliament.uk/ontologies/procedure/Step">Step</a><sup title="class" class="type-c">c</sup></dd></dl></div></div><div id="d4e53" class="entity"><a name="http://parliament.uk/ontologies/procedure/applies"></a><h3>applies<sup title="object property" class="type-op">op</sup><span class="backlink"> back to <a href="#toc">ToC</a> or <a href="#objectproperties">Object Property ToC</a></span></h3><p><strong>IRI:</strong> http://parliament.uk/ontologies/procedure/applies</p><div class="comment"><span class="markdown">Relates a route to the route logic applied.</span></div><div class="description"><dl><dt>has domain</dt><dd><a href="#d4e256" title="http://parliament.uk/ontologies/procedure/Route">Route</a><sup title="class" class="type-c">c</sup></dd><dt>has range</dt><dd><a href="#d4e267" title="http://parliament.uk/ontologies/procedure/RouteLogic">RouteLogic</a><sup title="class" class="type-c">c</sup></dd></dl></div></div><div id="d4e68" class="entity"><a name="http://parliament.uk/ontologies/procedure/calendarises"></a><h3>calendarises<sup title="object property" class="type-op">op</sup><span class="backlink"> back to <a href="#toc">ToC</a> or <a href="#objectproperties">Object Property ToC</a></span></h3><p><strong>IRI:</strong> http://parliament.uk/ontologies/procedure/calendarises</p><div class="comment"><span class="markdown">Relates a calender business item to a business item.</span></div><div class="description"><dl><dt>has domain</dt><dd><a href="#d4e222" title="http://parliament.uk/ontologies/procedure/CalendarBusinessItem">CalendarBusinessItem</a><sup title="class" class="type-c">c</sup></dd><dt>has range</dt><dd><a href="#d4e211" title="http://parliament.uk/ontologies/procedure/BusinessItem">BusinessItem</a><sup title="class" class="type-c">c</sup></dd></dl></div></div><div id="d4e84" class="entity"><a name="http://parliament.uk/ontologies/procedure/causes"></a><h3>causes<sup title="object property" class="type-op">op</sup><span class="backlink"> back to <a href="#toc">ToC</a> or <a href="#objectproperties">Object Property ToC</a></span></h3><p><strong>IRI:</strong> http://parliament.uk/ontologies/procedure/causes</p><div class="comment"><span class="markdown">Relates a route to a following step where completion of the preceding step(s) directly causes the route to trigger the next step.</span></div><div class="description"><dl><dt>has domain</dt><dd><a href="#d4e256" title="http://parliament.uk/ontologies/procedure/Route">Route</a><sup title="class" class="type-c">c</sup></dd><dt>has range</dt><dd><a href="#d4e279" title="http://parliament.uk/ontologies/procedure/Step">Step</a><sup title="class" class="type-c">c</sup></dd></dl></div></div><div id="d4e99" class="entity"><a name="http://parliament.uk/ontologies/procedure/follows"></a><h3>follows<sup title="object property" class="type-op">op</sup><span class="backlink"> back to <a href="#toc">ToC</a> or <a href="#objectproperties">Object Property ToC</a></span></h3><p><strong>IRI:</strong> http://parliament.uk/ontologies/procedure/follows</p><div class="comment"><span class="markdown">Relates a procedure to a route.</span></div><div class="description"><dl><dt>has domain</dt><dd><a href="#d4e245" title="http://parliament.uk/ontologies/procedure/Procedure">Procedure</a><sup title="class" class="type-c">c</sup></dd><dt>has range</dt><dd><a href="#d4e256" title="http://parliament.uk/ontologies/procedure/Route">Route</a><sup title="class" class="type-c">c</sup></dd></dl></div></div><div id="d4e114" class="entity"><a name="http://parliament.uk/ontologies/procedure/hasWorkPackageType"></a><h3>hasWorkPackageType<sup title="object property" class="type-op">op</sup><span class="backlink"> back to <a href="#toc">ToC</a> or <a href="#objectproperties">Object Property ToC</a></span></h3><p><strong>IRI:</strong> http://parliament.uk/ontologies/procedure/hasWorkPackageType</p><div class="comment"><span class="markdown">Relates a work package to the type of work being undertaken.</span></div><div class="description"><dl><dt>has domain</dt><dd><a href="#d4e290" title="http://parliament.uk/ontologies/procedure/WorkPackage">WorkPackage</a><sup title="class" class="type-c">c</sup></dd><dt>has range</dt><dd><a href="#d4e301" title="http://parliament.uk/ontologies/procedure/WorkPackageType">WorkPackageType</a><sup title="class" class="type-c">c</sup></dd></dl></div></div><div id="d4e130" class="entity"><a name="http://parliament.uk/ontologies/procedure/in"></a><h3>in<sup title="object property" class="type-op">op</sup><span class="backlink"> back to <a href="#toc">ToC</a> or <a href="#objectproperties">Object Property ToC</a></span></h3><p><strong>IRI:</strong> http://parliament.uk/ontologies/procedure/in</p><div class="comment"><span class="markdown">Relates a procedure to a House.</span></div><div class="description"><dl><dt>has domain</dt><dd><a href="#d4e245" title="http://parliament.uk/ontologies/procedure/Procedure">Procedure</a><sup title="class" class="type-c">c</sup></dd><dt>has range</dt><dd><a href="#d4e233" title="http://parliament.uk/ontologies/procedure/House">House</a><sup title="class" class="type-c">c</sup></dd></dl></div></div><div id="d4e145" class="entity"><a name="http://parliament.uk/ontologies/procedure/leadsTo"></a><h3>leadsTo<sup title="object property" class="type-op">op</sup><span class="backlink"> back to <a href="#toc">ToC</a> or <a href="#objectproperties">Object Property ToC</a></span></h3><p><strong>IRI:</strong> http://parliament.uk/ontologies/procedure/leadsTo</p><div class="comment"><span class="markdown">Relates a step to a following route.</span></div><div class="description"><dl><dt>has domain</dt><dd><a href="#d4e279" title="http://parliament.uk/ontologies/procedure/Step">Step</a><sup title="class" class="type-c">c</sup></dd><dt>has range</dt><dd><a href="#d4e256" title="http://parliament.uk/ontologies/procedure/Route">Route</a><sup title="class" class="type-c">c</sup></dd></dl></div></div><div id="d4e160" class="entity"><a name="http://parliament.uk/ontologies/procedure/subjectTo"></a><h3>subjectTo<sup title="object property" class="type-op">op</sup><span class="backlink"> back to <a href="#toc">ToC</a> or <a href="#objectproperties">Object Property ToC</a></span></h3><p><strong>IRI:</strong> http://parliament.uk/ontologies/procedure/subjectTo</p><div class="comment"><span class="markdown">Relates a work package type to the procedure it is subject to.</span></div><div class="description"><dl><dt>has domain</dt><dd><a href="#d4e301" title="http://parliament.uk/ontologies/procedure/WorkPackageType">WorkPackageType</a><sup title="class" class="type-c">c</sup></dd><dt>has range</dt><dd><a href="#d4e245" title="http://parliament.uk/ontologies/procedure/Procedure">Procedure</a><sup title="class" class="type-c">c</sup></dd></dl></div></div><div id="d4e176" class="entity"><a name="http://parliament.uk/ontologies/procedure/undertakes"></a><h3>undertakes<sup title="object property" class="type-op">op</sup><span class="backlink"> back to <a href="#toc">ToC</a> or <a href="#objectproperties">Object Property ToC</a></span></h3><p><strong>IRI:</strong> http://parliament.uk/ontologies/procedure/undertakes</p><div class="comment"><span class="markdown">Relates a work package to the individual business items that comprise it.</span></div><div class="description"><dl><dt>has domain</dt><dd><a href="#d4e290" title="http://parliament.uk/ontologies/procedure/WorkPackage">WorkPackage</a><sup title="class" class="type-c">c</sup></dd><dt>has range</dt><dd><a href="#d4e211" title="http://parliament.uk/ontologies/procedure/BusinessItem">BusinessItem</a><sup title="class" class="type-c">c</sup></dd></dl></div></div></div><div id="dataproperties"><h2>Data Properties</h2><ul class="hlist"><li><a href="#d4e193" title="http://parliament.uk/ontologies/procedure/canSpawnMultiple">canSpawnMultiple</a></li></ul><div id="d4e193" class="entity"><a name="http://parliament.uk/ontologies/procedure/canSpawnMultiple"></a><h3>canSpawnMultiple<sup title="data property" class="type-dp">dp</sup><span class="backlink"> back to <a href="#toc">ToC</a> or <a href="#dataproperties">Data Property ToC</a></span></h3><p><strong>IRI:</strong> http://parliament.uk/ontologies/procedure/canSpawnMultiple</p><div class="comment"><span class="markdown">Determines if multiple versions of the step can be spawned in parallel. Or just one.</span></div><div class="description"><dl><dt>has domain</dt><dd><a href="#d4e279" title="http://parliament.uk/ontologies/procedure/Step">Step</a><sup title="class" class="type-c">c</sup></dd><dt>has range</dt><dd><span class="dotted" title="http://www.w3.org/2001/XMLSchema#boolean">boolean</span></dd></dl></div></div></div><div id="namespacedeclarations"><h2>Namespace Declarations <span class="backlink"> back to <a href="#toc">ToC</a></span></h2><dl><dt><em>default namespace</em></dt><dd>http://parliament.uk/ontologies/laying/</dd><dt>owl</dt><dd>http://www.w3.org/2002/07/owl#</dd><dt>procedure</dt><dd>http://parliament.uk/ontologies/procedure/</dd><dt>rdf</dt><dd>http://www.w3.org/1999/02/22-rdf-syntax-ns#</dd><dt>rdfs</dt><dd>http://www.w3.org/2000/01/rdf-schema#</dd><dt>terms</dt><dd>http://purl.org/dc/terms/</dd><dt>xsd</dt><dd>http://www.w3.org/2001/XMLSchema#</dd></dl></div><p class="endnote">This HTML document was obtained by processing the OWL ontology source code through <a href="http://www.essepuntato.it/lode">LODE</a>, <em>Live OWL Documentation Environment</em>, developed by <a href="http://www.essepuntato.it">Silvio Peroni</a>.</p></body></html>
 
 
